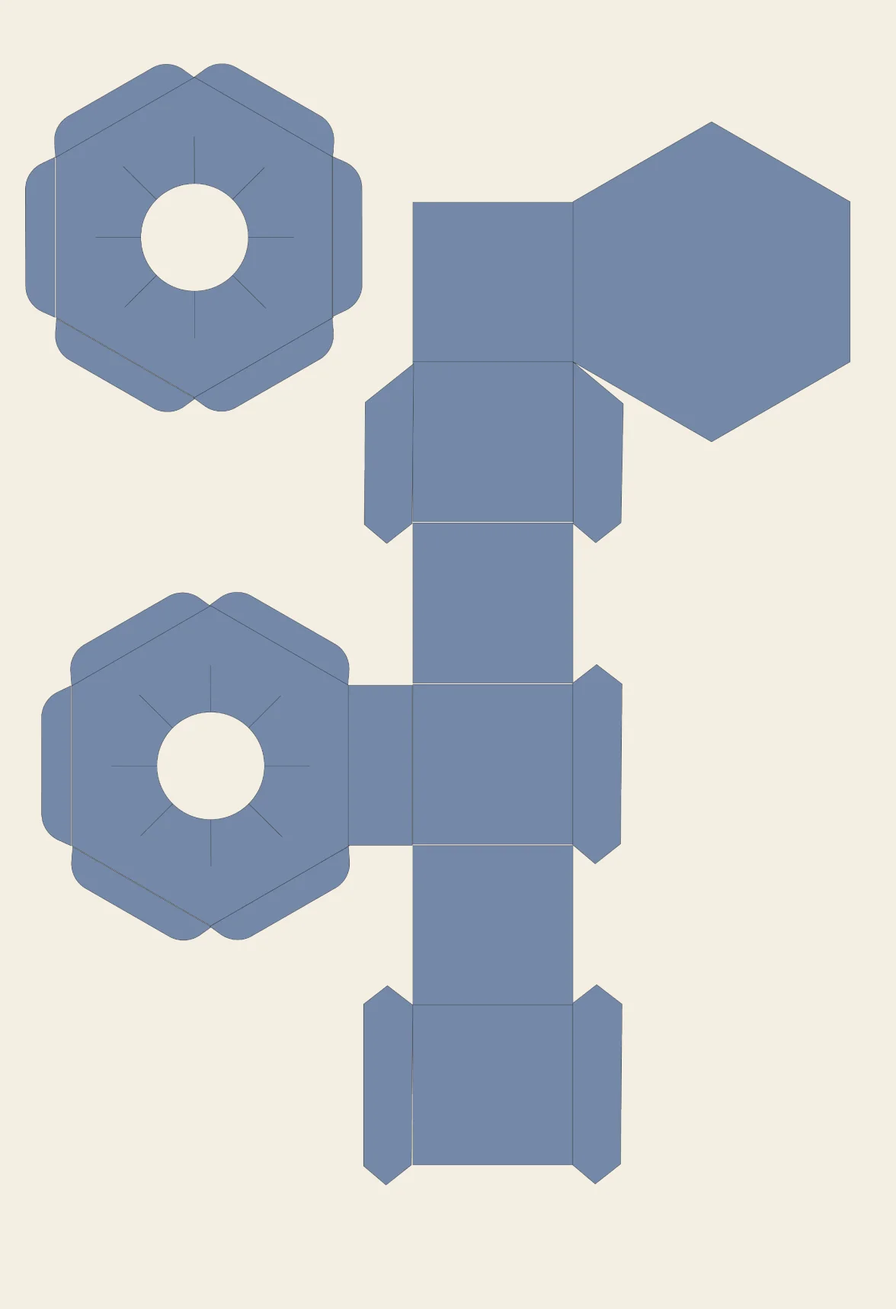
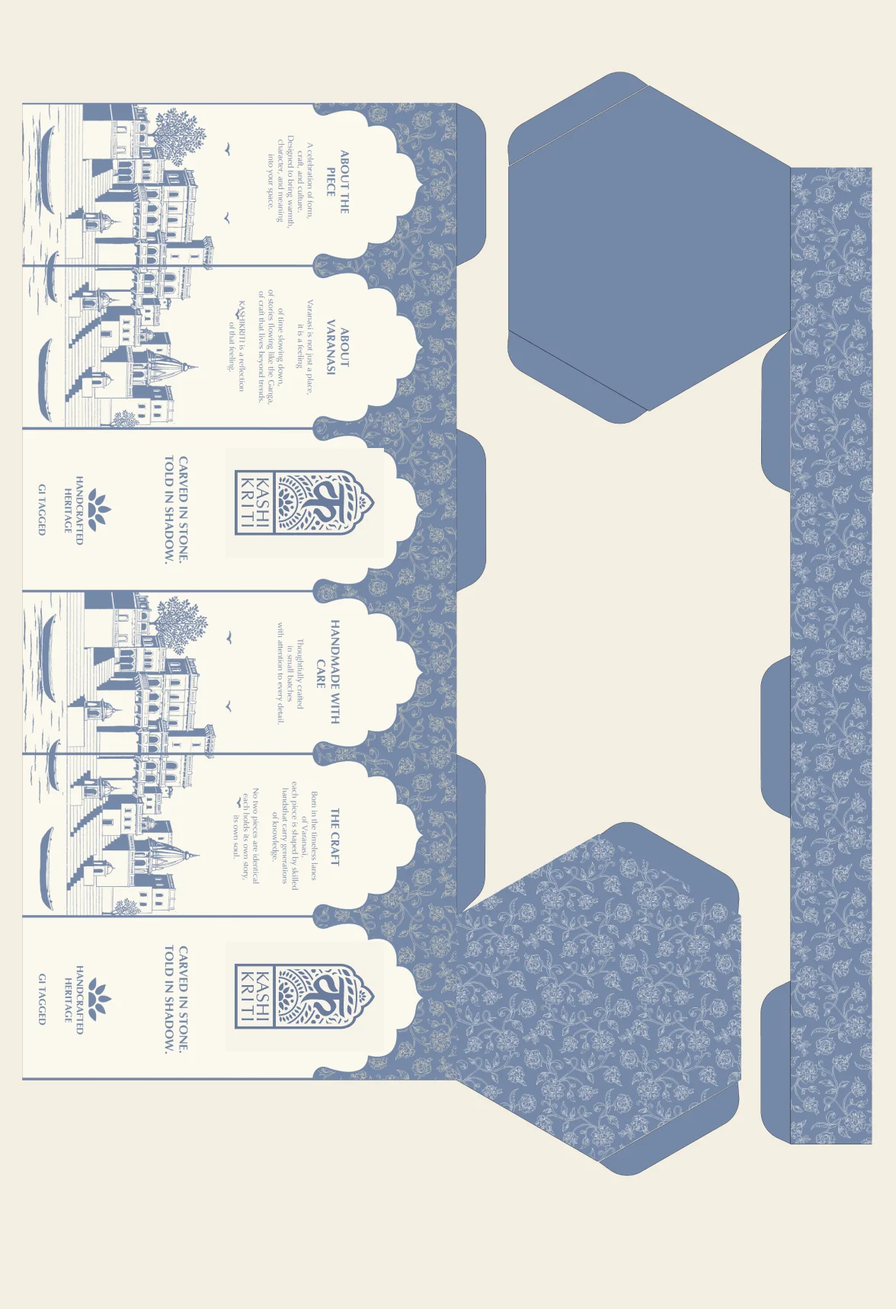
Kashikriti: new Packaging section from Figma (four steps, concept and structure photos, six panels, dieline, box mockup)
Claude-Session: https://claude.ai/code/session_01MAj4dGdYk2xdUyPPaXS8BB

diff --git a/work/kashikriti/index.html b/work/kashikriti/index.html
@@ -215,8 +215,8 @@ unseen by its own People." loading="lazy" decoding="async"></figure><div class="
 <section class="s" style="--h:1795" aria-label="Identity system"><img class="m" src="s/19.webp" srcset="s/19.webp 1440w, s/19@2x.webp 2880w" sizes="100vw" width="1440" height="1795" alt="" loading="lazy" decoding="async"><p class="t" style="left:calc(648*var(--k));top:calc(140*var(--k));width:calc(144*var(--k));font-size:calc(16*var(--k));line-height:1.4;font-family:var(--sans);text-align:center">Identity system</p><h2 class="t" style="left:calc(366*var(--k));top:calc(178*var(--k));width:calc(708*var(--k));font-size:calc(42*var(--k));line-height:calc(50*var(--k));font-family:var(--serif);text-align:center;font-style:italic">Stone colours, an arch, and a knot that repeats.</h2><p class="t" style="left:calc(240*var(--k));top:calc(268*var(--k));width:calc(960*var(--k));font-size:calc(16*var(--k));line-height:1.4;font-family:var(--sans);text-align:center">Every colour is taken from the stone itself. The arch frames photographs and text, and the knot repeats as a pattern across packaging and backgrounds.</p><p class="t" style="left:calc(168*var(--k));top:calc(732*var(--k));width:calc(89*var(--k));font-size:calc(16*var(--k));line-height:1.4;font-family:var(--sans);text-align:left">Stone Sand</p><p class="t" style="left:calc(168*var(--k));top:calc(758*var(--k));width:calc(224*var(--k));font-size:calc(14*var(--k));line-height:1.4;font-family:var(--sans);text-align:left">#CBB989  ·  Warm base, packaging</p><p class="t" style="left:calc(452*var(--k));top:calc(732*var(--k));width:calc(76*var(--k));font-size:calc(16*var(--k));line-height:1.4;font-family:var(--sans);text-align:left">Slate Blue</p><p class="t" style="left:calc(452*var(--k));top:calc(758*var(--k));width:calc(179*var(--k));font-size:calc(14*var(--k));line-height:1.4;font-family:var(--sans);text-align:left">#7F939E  ·  Accent, patterns</p><p class="t" style="left:calc(736*var(--k));top:calc(732*var(--k));width:calc(70*var(--k));font-size:calc(16*var(--k));line-height:1.4;font-family:var(--sans);text-align:left">Charcoal</p><p class="t" style="left:calc(736*var(--k));top:calc(758*var(--k));width:calc(184*var(--k));font-size:calc(14*var(--k));line-height:1.4;font-family:var(--sans);text-align:left">#3E454B  ·  Text and contrast</p><p class="t" style="left:calc(1020*var(--k));top:calc(732*var(--k));width:calc(70*var(--k));font-size:calc(16*var(--k));line-height:1.4;font-family:var(--sans);text-align:left">Mist Blue</p><p class="t" style="left:calc(1020*var(--k));top:calc(758*var(--k));width:calc(196*var(--k));font-size:calc(14*var(--k));line-height:1.4;font-family:var(--sans);text-align:left">#D9E7F0  ·  Light backgrounds</p><p class="t" style="left:calc(403*var(--k));top:calc(898*var(--k));width:calc(54*var(--k));font-size:calc(12*var(--k));line-height:1.4;font-family:var(--sans);text-align:left">Optima</p><p class="t" style="left:calc(403*var(--k));top:calc(939*var(--k));width:calc(237*var(--k));font-size:calc(32*var(--k));line-height:1.0;font-family:var(--sans);text-align:left">ABCDEFGHIJKLMNOPQRSTUVWXYZ</p><p class="t" style="left:calc(403*var(--k));top:calc(1075*var(--k));width:calc(237*var(--k));font-size:calc(32*var(--k));line-height:1.0;font-family:var(--sans);text-align:left">ABCDEFGHIJKLMNOPQRSTUVWXYZ</p><p class="t" style="left:calc(800*var(--k));top:calc(898*var(--k));width:calc(129*var(--k));font-size:calc(12*var(--k));line-height:1.4;font-family:var(--sans);text-align:left">Instrument Serif</p><p class="t" style="left:calc(800*var(--k));top:calc(939*var(--k));width:calc(237*var(--k));font-size:calc(32*var(--k));line-height:1.0;font-family:var(--serif);text-align:left">ABCDEFGHIJKLMNOPQRSTUVWXYZ</p><p class="t" style="left:calc(800*var(--k));top:calc(1075*var(--k));width:calc(237*var(--k));font-size:calc(32*var(--k));line-height:1.0;font-family:var(--serif);text-align:left">ABCDEFGHIJKLMNOPQRSTUVWXYZ</p><p class="t" style="left:calc(504*var(--k));top:calc(1539*var(--k));width:calc(76*var(--k));font-size:calc(18.8*var(--k));line-height:1.2;font-family:var(--serif);text-align:left">Handcrafted</p><p class="t" style="left:calc(881*var(--k));top:calc(1539*var(--k));width:calc(34*var(--k));font-size:calc(18.8*var(--k));line-height:1.2;font-family:var(--serif);text-align:left">Kashi</p></section>
 <section class="ms" style="background:#ffffff" aria-label="Identity system"><div class="mw"><p class="lb" style="font:700 16px/1.4 var(--sans);text-align:center;color:#d8b66a">Identity system</p><h2 style="font:italic 400 30.3px/1.15 var(--serif);text-align:center;color:#000000">Stone colours, an arch, and a knot that repeats.</h2><p style="font:400 16px/1.4 var(--sans);text-align:center;color:#000000">Every colour is taken from the stone itself. The arch frames photographs and text, and the knot repeats as a pattern across packaging and backgrounds.</p><div class="gr" style="--c:2"><div class="sp"><figure class="pi"><img src="m/19-1.webp" width="504" height="668" alt="" loading="lazy" decoding="async"></figure><div class="cap"><p style="font:700 16px/1.4 var(--sans);color:#000000">Stone Sand</p><p style="font:400 14px/1.4 var(--sans);color:#5c6166">#CBB989  ·  Warm base, packaging</p></div></div><div class="sp"><figure class="pi"><img src="m/19-2.webp" width="504" height="668" alt="" loading="lazy" decoding="async"></figure><div class="cap"><p style="font:700 16px/1.4 var(--sans);color:#000000">Slate Blue</p><p style="font:400 14px/1.4 var(--sans);color:#5c6166">#7F939E  ·  Accent, patterns</p></div></div><div class="sp"><figure class="pi"><img src="m/19-3.webp" width="504" height="668" alt="" loading="lazy" decoding="async"></figure><div class="cap"><p style="font:700 16px/1.4 var(--sans);color:#000000">Charcoal</p><p style="font:400 14px/1.4 var(--sans);color:#5c6166">#3E454B  ·  Text and contrast</p></div></div><div class="sp"><figure class="pi"><img src="m/19-4.webp" width="504" height="668" alt="" loading="lazy" decoding="async"></figure><div class="cap"><p style="font:700 16px/1.4 var(--sans);color:#000000">Mist Blue</p><p style="font:400 14px/1.4 var(--sans);color:#5c6166">#D9E7F0  ·  Light backgrounds</p></div></div></div><figure class="pi" style="max-width:317px"><img src="m/19-5.webp" width="634" height="643" alt="Optima ABCDEFGHIJKLMNOPQRSTUVWXYZ ABCDEFGHIJKLMNOPQRSTUVWXYZ" loading="lazy" decoding="async"></figure><figure class="pi" style="max-width:317px"><img src="m/19-6.webp" width="634" height="643" alt="Instrument Serif ABCDEFGHIJKLMNOPQRSTUVWXYZ ABCDEFGHIJKLMNOPQRSTUVWXYZ" loading="lazy" decoding="async"></figure><figure class="pi" style="max-width:674px"><img src="m/19-7.webp" width="1200" height="705" alt="Handcrafted Kashi" loading="lazy" decoding="async"></figure></div></section>
 <section class="s keep" style="--h:810" aria-label="Logo animation"><video class="m" poster="s/logo-v2-poster.webp" autoplay muted loop playsinline preload="metadata" aria-label="The Kashikriti logo animation"><source src="s/logo-v2.mp4" type="video/mp4"><source src="s/logo-v2.webm" type="video/webm"></video></section>
-<section class="s" style="--h:2998" aria-label="Packaging"><img class="m" src="s/21.webp" srcset="s/21.webp 1440w, s/21@2x.webp 2880w" sizes="100vw" width="1440" height="2998" alt="" loading="lazy" decoding="async"><p class="t" style="left:calc(673*var(--k));top:calc(140*var(--k));width:calc(95*var(--k));font-size:calc(16*var(--k));line-height:1.4;font-family:var(--sans);text-align:center">Packaging</p><h2 class="t" style="left:calc(441*var(--k));top:calc(178*var(--k));width:calc(558*var(--k));font-size:calc(42*var(--k));line-height:calc(50*var(--k));font-family:var(--serif);text-align:center;font-style:italic">A six-sided box that tells a 360° story.</h2><p class="t" style="left:calc(240*var(--k));top:calc(268*var(--k));width:calc(960*var(--k));font-size:calc(16*var(--k));line-height:1.4;font-family:var(--sans);text-align:center">Jaali pieces are fragile, so the box needed to protect them and feel worth opening. It is a hexagonal two-piece rigid box, a balance of culture, craft and minimal luxury: heritage-led, yet modern and premium.</p><p class="t" style="left:calc(121*var(--k));top:calc(1232*var(--k));width:calc(76*var(--k));font-size:calc(12*var(--k));line-height:1.4;font-family:var(--sans);text-align:left">Top · 16 cm</p><p class="t" style="left:calc(121*var(--k));top:calc(1257*var(--k));width:calc(373*var(--k));font-size:calc(16*var(--k));line-height:1.25;font-family:var(--sans);text-align:left">Carries the brand and its story across six panels.</p><p class="t" style="left:calc(534*var(--k));top:calc(1232*var(--k));width:calc(77*var(--k));font-size:calc(12*var(--k));line-height:1.4;font-family:var(--sans);text-align:left">Base · 3 cm</p><p class="t" style="left:calc(534*var(--k));top:calc(1257*var(--k));width:calc(373*var(--k));font-size:calc(16*var(--k));line-height:1.25;font-family:var(--sans);text-align:left">Holds the piece, finished with a solid blue band for balance.</p><p class="t" style="left:calc(947*var(--k));top:calc(1232*var(--k));width:calc(162*var(--k));font-size:calc(12*var(--k));line-height:1.4;font-family:var(--sans);text-align:left">Six panels, one story</p><p class="t" style="left:calc(947*var(--k));top:calc(1257*var(--k));width:calc(373*var(--k));font-size:calc(16*var(--k));line-height:1.25;font-family:var(--sans);text-align:left">Varanasi  ·  The craft  ·  The piece  ·  Handmade process  ·  Sustainability</p><p class="t" style="left:calc(562*var(--k));top:calc(1895*var(--k));width:calc(316*var(--k));font-size:calc(14*var(--k));line-height:1.4;font-family:var(--sans);text-align:center">The six panels laid flat, now carrying the arch logo</p><p class="t" style="left:calc(620*var(--k));top:calc(2838*var(--k));width:calc(200*var(--k));font-size:calc(14*var(--k));line-height:1.4;font-family:var(--sans);text-align:center">Dieline for the top and the base</p></section>
-<section class="ms" style="background:#f4efe2" aria-label="Packaging"><div class="mw"><p class="lb" style="font:700 16px/1.4 var(--sans);text-align:center;color:#d8b66a">Packaging</p><h2 style="font:italic 400 30.3px/1.15 var(--serif);text-align:center;color:#000000">A six-sided box that tells a 360° story.</h2><p style="font:400 16px/1.4 var(--sans);text-align:center;color:#000000">Jaali pieces are fragile, so the box needed to protect them and feel worth opening. It is a hexagonal two-piece rigid box, a balance of culture, craft and minimal luxury: heritage-led, yet modern and premium.</p><figure class="bl"><img src="m/21-1.webp" width="1640" height="1093" alt="" loading="lazy" decoding="async"></figure><div class="gr" style="--c:1"><div class="cd"><p style="font:700 13px/1.4 var(--sans);color:#5c6166;text-transform:uppercase;letter-spacing:.06em">Top · 16 cm</p><p style="font:400 16px/1.25 var(--sans);color:#000000">Carries the brand and its story across six panels.</p></div><div class="cd"><p style="font:700 13px/1.4 var(--sans);color:#5c6166;text-transform:uppercase;letter-spacing:.06em">Base · 3 cm</p><p style="font:400 16px/1.25 var(--sans);color:#000000">Holds the piece, finished with a solid blue band for balance.</p></div><div class="cd"><p style="font:700 13px/1.4 var(--sans);color:#5c6166;text-transform:uppercase;letter-spacing:.06em">Six panels, one story</p><p style="font:400 16px/1.25 var(--sans);color:#000000">Varanasi  ·  The craft  ·  The piece  ·  Handmade process  ·  Sustainability</p></div></div><figure class="pi" style="max-width:1200px"><img src="m/21-2.webp" width="1200" height="534" alt="" loading="lazy" decoding="async"></figure><p style="font:400 14px/1.4 var(--sans);text-align:center;color:#5c6166">The six panels laid flat, now carrying the arch logo</p><figure class="pi" style="max-width:588px"><img src="m/21-3.webp" width="1176" height="1718" alt="" loading="lazy" decoding="async"></figure><figure class="pi" style="max-width:588px"><img src="m/21-4.webp" width="1176" height="1718" alt="" loading="lazy" decoding="async"></figure><p style="font:400 14px/1.4 var(--sans);text-align:center;color:#5c6166">Dieline for the top and the base</p></div></section>
+<section class="s" style="--h:3872" aria-label="Packaging"><img class="m" src="s/21.webp" srcset="s/21.webp 1440w, s/21@2x.webp 2880w" sizes="100vw" width="1440" height="3872" alt="" loading="lazy" decoding="async"><p class="t" style="left:calc(673*var(--k));top:calc(140*var(--k));width:calc(95*var(--k));font-size:calc(16*var(--k));line-height:1.4;font-family:var(--sans);text-align:center">Packaging</p><h2 class="t" style="left:calc(441*var(--k));top:calc(178*var(--k));width:calc(558*var(--k));font-size:calc(42*var(--k));line-height:calc(50*var(--k));font-family:var(--serif);text-align:center;font-style:italic">A six-sided box that tells a 360° story.</h2><p class="t" style="left:calc(240*var(--k));top:calc(268*var(--k));width:calc(960*var(--k));font-size:calc(16*var(--k));line-height:1.4;font-family:var(--sans);text-align:center">Jaali pieces are fragile, and most listings show only the GI label, size and price. So the box had two jobs: protect the piece, and carry the story the listings leave out. I worked it out in four steps.</p><p class="t" style="left:calc(140*var(--k));top:calc(397*var(--k));width:calc(53*var(--k));font-size:calc(12*var(--k));line-height:1.4;font-family:var(--sans);text-align:left">STEP 01</p><h3 class="t" style="left:calc(140*var(--k));top:calc(426*var(--k));width:calc(91*var(--k));font-size:calc(32*var(--k));line-height:1.2;font-family:var(--serif);text-align:left;font-style:italic">Concept</h3><p class="t" style="left:calc(140*var(--k));top:calc(476*var(--k));width:calc(260*var(--k));font-size:calc(16*var(--k));line-height:1.4;font-family:var(--sans);text-align:left">A rough kraft model with a fitted insert that holds the piece upright.</p><p class="t" style="left:calc(440*var(--k));top:calc(397*var(--k));width:calc(55*var(--k));font-size:calc(12*var(--k));line-height:1.4;font-family:var(--sans);text-align:left">STEP 02</p><h3 class="t" style="left:calc(440*var(--k));top:calc(426*var(--k));width:calc(109*var(--k));font-size:calc(32*var(--k));line-height:1.2;font-family:var(--serif);text-align:left;font-style:italic">Structure</h3><p class="t" style="left:calc(440*var(--k));top:calc(476*var(--k));width:calc(260*var(--k));font-size:calc(16*var(--k));line-height:1.4;font-family:var(--sans);text-align:left">A rigid two-piece hexagon. The top lifts off, so the piece is never pulled from a flap.</p><p class="t" style="left:calc(740*var(--k));top:calc(397*var(--k));width:calc(55*var(--k));font-size:calc(12*var(--k));line-height:1.4;font-family:var(--sans);text-align:left">STEP 03</p><h3 class="t" style="left:calc(740*var(--k));top:calc(426*var(--k));width:calc(118*var(--k));font-size:calc(32*var(--k));line-height:1.2;font-family:var(--serif);text-align:left;font-style:italic">Six panels</h3><p class="t" style="left:calc(740*var(--k));top:calc(476*var(--k));width:calc(260*var(--k));font-size:calc(16*var(--k));line-height:1.4;font-family:var(--sans);text-align:left">One panel per part of the story, read as you turn the box.</p><p class="t" style="left:calc(1040*var(--k));top:calc(397*var(--k));width:calc(55*var(--k));font-size:calc(12*var(--k));line-height:1.4;font-family:var(--sans);text-align:left">STEP 04</p><h3 class="t" style="left:calc(1040*var(--k));top:calc(426*var(--k));width:calc(88*var(--k));font-size:calc(32*var(--k));line-height:1.2;font-family:var(--serif);text-align:left;font-style:italic">The box</h3><p class="t" style="left:calc(1040*var(--k));top:calc(476*var(--k));width:calc(260*var(--k));font-size:calc(16*var(--k));line-height:1.4;font-family:var(--sans);text-align:left">Printed in the stone’s slate blue and cream, with the arch on every side.</p><p class="t" style="left:calc(140*var(--k));top:calc(1056*var(--k));width:calc(87*var(--k));font-size:calc(12*var(--k));line-height:1.4;font-family:var(--sans);text-align:left">01  CONCEPT</p><p class="t" style="left:calc(140*var(--k));top:calc(1095*var(--k));width:calc(564*var(--k));font-size:calc(14*var(--k));line-height:1.4;font-family:var(--sans);text-align:left">The first kraft model: the arch drawn on a six-sided sleeve, with an insert inside.</p><p class="t" style="left:calc(736*var(--k));top:calc(1056*var(--k));width:calc(104*var(--k));font-size:calc(12*var(--k));line-height:1.4;font-family:var(--sans);text-align:left">02  STRUCTURE</p><p class="t" style="left:calc(736*var(--k));top:calc(1095*var(--k));width:calc(564*var(--k));font-size:calc(14*var(--k));line-height:1.4;font-family:var(--sans);text-align:left">The final form: a tall top that lifts off a shallow base.</p><p class="t" style="left:calc(121*var(--k));top:calc(1187*var(--k));width:calc(76*var(--k));font-size:calc(12*var(--k));line-height:1.4;font-family:var(--sans);text-align:left">Top · 16 cm</p><p class="t" style="left:calc(121*var(--k));top:calc(1212*var(--k));width:calc(373*var(--k));font-size:calc(16*var(--k));line-height:1.25;font-family:var(--sans);text-align:left">Carries the brand and its story across six panels.</p><p class="t" style="left:calc(534*var(--k));top:calc(1187*var(--k));width:calc(77*var(--k));font-size:calc(12*var(--k));line-height:1.4;font-family:var(--sans);text-align:left">Base · 3 cm</p><p class="t" style="left:calc(534*var(--k));top:calc(1212*var(--k));width:calc(373*var(--k));font-size:calc(16*var(--k));line-height:1.25;font-family:var(--sans);text-align:left">Holds the piece, finished with a solid blue band for balance.</p><p class="t" style="left:calc(947*var(--k));top:calc(1187*var(--k));width:calc(162*var(--k));font-size:calc(12*var(--k));line-height:1.4;font-family:var(--sans);text-align:left">Six panels, one story</p><p class="t" style="left:calc(947*var(--k));top:calc(1212*var(--k));width:calc(373*var(--k));font-size:calc(16*var(--k));line-height:1.25;font-family:var(--sans);text-align:left">About the piece  ·  Varanasi  ·  The craft  ·  Handmade with care  ·  Logo and tagline</p><p class="t" style="left:calc(120*var(--k));top:calc(1880*var(--k));width:calc(101*var(--k));font-size:calc(12*var(--k));line-height:1.4;font-family:var(--sans);text-align:left">03  SIX PANELS</p><p class="t" style="left:calc(120*var(--k));top:calc(1919*var(--k));width:calc(760*var(--k));font-size:calc(14*var(--k));line-height:1.4;font-family:var(--sans);text-align:left">About the piece, about Varanasi, the craft, handmade with care, and the arch logo with “Carved in stone. Told in shadow.” The ghats run along the bottom, the floral repeat along the top.</p><p class="t" style="left:calc(538*var(--k));top:calc(2906*var(--k));width:calc(365*var(--k));font-size:calc(14*var(--k));line-height:1.4;font-family:var(--sans);text-align:center">Dieline for the top and the base.</p><p class="t" style="left:calc(140*var(--k));top:calc(3673*var(--k));width:calc(82*var(--k));font-size:calc(12*var(--k));line-height:1.4;font-family:var(--sans);text-align:left">04  THE BOX</p><p class="t" style="left:calc(140*var(--k));top:calc(3712*var(--k));width:calc(1160*var(--k));font-size:calc(14*var(--k));line-height:1.4;font-family:var(--sans);text-align:left">Mockup render: the printed box beside the carving it holds.</p></section>
+<section class="ms" style="background:#f4efe2" aria-label="Packaging"><div class="mw"><p class="lb" style="font:700 16px/1.4 var(--sans);text-align:center;color:#d8b66a">Packaging</p><h2 style="font:italic 400 30.3px/1.15 var(--serif);text-align:center;color:#000000">A six-sided box that tells a 360° story.</h2><p style="font:400 16px/1.4 var(--sans);text-align:center;color:#000000">Jaali pieces are fragile, and most listings show only the GI label, size and price. So the box had two jobs: protect the piece, and carry the story the listings leave out. I worked it out in four steps.</p><div class="gr" style="--c:1"><div class="cd"><p style="font:700 13px/1.4 var(--sans);color:#8a7a4e">STEP 01</p><h3 style="font:italic 400 24.8px/1.15 var(--serif);color:#3e454b">Concept</h3><p style="font:400 16px/1.4 var(--sans);color:#3e454b">A rough kraft model with a fitted insert that holds the piece upright.</p></div><div class="cd"><p style="font:700 13px/1.4 var(--sans);color:#8a7a4e">STEP 02</p><h3 style="font:italic 400 24.8px/1.15 var(--serif);color:#3e454b">Structure</h3><p style="font:400 16px/1.4 var(--sans);color:#3e454b">A rigid two-piece hexagon. The top lifts off, so the piece is never pulled from a flap.</p></div><div class="cd"><p style="font:700 13px/1.4 var(--sans);color:#8a7a4e">STEP 03</p><h3 style="font:italic 400 24.8px/1.15 var(--serif);color:#3e454b">Six panels</h3><p style="font:400 16px/1.4 var(--sans);color:#3e454b">One panel per part of the story, read as you turn the box.</p></div><div class="cd"><p style="font:700 13px/1.4 var(--sans);color:#8a7a4e">STEP 04</p><h3 style="font:italic 400 24.8px/1.15 var(--serif);color:#3e454b">The box</h3><p style="font:400 16px/1.4 var(--sans);color:#3e454b">Printed in the stone’s slate blue and cream, with the arch on every side.</p></div></div><div class="sp"><figure class="pi" style="max-width:564px"><img src="m/21-1.webp" width="1128" height="872" alt="" loading="lazy" decoding="async"></figure><div class="cap"><p style="font:700 13px/1.4 var(--sans);color:#8a7a4e">01  CONCEPT</p><p style="font:400 14px/1.4 var(--sans);color:#3e454b">The first kraft model: the arch drawn on a six-sided sleeve, with an insert inside.</p></div></div><div class="sp"><figure class="pi" style="max-width:564px"><img src="m/21-2.webp" width="1128" height="872" alt="" loading="lazy" decoding="async"></figure><div class="cap"><p style="font:700 13px/1.4 var(--sans);color:#8a7a4e">02  STRUCTURE</p><p style="font:400 14px/1.4 var(--sans);color:#3e454b">The final form: a tall top that lifts off a shallow base.</p></div></div><div class="gr" style="--c:1"><div class="cd"><p style="font:700 13px/1.4 var(--sans);color:#5c6166;text-transform:uppercase;letter-spacing:.06em">Top · 16 cm</p><p style="font:400 16px/1.25 var(--sans);color:#000000">Carries the brand and its story across six panels.</p></div><div class="cd"><p style="font:700 13px/1.4 var(--sans);color:#5c6166;text-transform:uppercase;letter-spacing:.06em">Base · 3 cm</p><p style="font:400 16px/1.25 var(--sans);color:#000000">Holds the piece, finished with a solid blue band for balance.</p></div><div class="cd"><p style="font:700 13px/1.4 var(--sans);color:#5c6166;text-transform:uppercase;letter-spacing:.06em">Six panels, one story</p><p style="font:400 16px/1.25 var(--sans);color:#000000">About the piece  ·  Varanasi  ·  The craft  ·  Handmade with care  ·  Logo and tagline</p></div></div><figure class="bl"><img src="m/21-3.webp" width="1640" height="730" alt="" loading="lazy" decoding="async"></figure><p style="font:700 13px/1.4 var(--sans);color:#8a7a4e">03  SIX PANELS</p><p style="font:400 14px/1.4 var(--sans);color:#3e454b">About the piece, about Varanasi, the craft, handmade with care, and the arch logo with “Carved in stone. Told in shadow.” The ghats run along the bottom, the floral repeat along the top.</p><figure class="pi" style="max-width:588px"><img src="m/21-4.webp" width="1176" height="1718" alt="" loading="lazy" decoding="async"></figure><figure class="pi" style="max-width:588px"><img src="m/21-5.webp" width="1176" height="1718" alt="" loading="lazy" decoding="async"></figure><p style="font:400 14px/1.4 var(--sans);text-align:center;color:#3e454b">Dieline for the top and the base.</p><figure class="bl"><img src="m/21-6.webp" width="1640" height="923" alt="" loading="lazy" decoding="async"></figure><p style="font:700 13px/1.4 var(--sans);color:#8a7a4e">04  THE BOX</p><p style="font:400 14px/1.4 var(--sans);color:#3e454b">Mockup render: the printed box beside the carving it holds.</p></div></section>
 <section class="s" style="--h:1323" aria-label="Campaign"><img class="m" src="s/22.webp" srcset="s/22.webp 1440w, s/22@2x.webp 2880w" sizes="100vw" width="1440" height="1323" alt="" loading="lazy" decoding="async"><p class="t" style="left:calc(677*var(--k));top:calc(140*var(--k));width:calc(87*var(--k));font-size:calc(16*var(--k));line-height:1.4;font-family:var(--sans);text-align:center">Campaign</p><h2 class="t" style="left:calc(534*var(--k));top:calc(178*var(--k));width:calc(372*var(--k));font-size:calc(42*var(--k));line-height:calc(50*var(--k));font-family:var(--serif);text-align:center;font-style:italic">Recognized. Still Unseen.</h2><p class="t" style="left:calc(240*var(--k));top:calc(268*var(--k));width:calc(960*var(--k));font-size:calc(16*var(--k));line-height:1.4;font-family:var(--sans);text-align:center">The craft has a GI tag, yet most people walk past it. The campaign plays on that gap. It first shows familiar patterns of light and shadow, then reveals their source: a hand-carved jaali.</p><p class="t" style="left:calc(140*var(--k));top:calc(373*var(--k));width:calc(63*var(--k));font-size:calc(12*var(--k));line-height:1.4;font-family:var(--sans);text-align:left">Phase 01</p><h3 class="t" style="left:calc(140*var(--k));top:calc(402*var(--k));width:calc(135*var(--k));font-size:calc(32*var(--k));line-height:1.2;font-family:var(--serif);text-align:left;font-style:italic">The Ignored</h3><p class="t" style="left:calc(140*var(--k));top:calc(452*var(--k));width:calc(360*var(--k));font-size:calc(16*var(--k));line-height:1.4;font-family:var(--sans);text-align:left">The craft exists all around us, yet is overlooked despite being recognized.</p><p class="t" style="left:calc(540*var(--k));top:calc(373*var(--k));width:calc(65*var(--k));font-size:calc(12*var(--k));line-height:1.4;font-family:var(--sans);text-align:left">Phase 02</p><h3 class="t" style="left:calc(540*var(--k));top:calc(402*var(--k));width:calc(136*var(--k));font-size:calc(32*var(--k));line-height:1.2;font-family:var(--serif);text-align:left;font-style:italic">The Making</h3><p class="t" style="left:calc(540*var(--k));top:calc(452*var(--k));width:calc(360*var(--k));font-size:calc(16*var(--k));line-height:1.4;font-family:var(--sans);text-align:left">The artisans, and the time and skill behind every piece.</p><p class="t" style="left:calc(940*var(--k));top:calc(373*var(--k));width:calc(65*var(--k));font-size:calc(12*var(--k));line-height:1.4;font-family:var(--sans);text-align:left">Phase 03</p><h3 class="t" style="left:calc(940*var(--k));top:calc(402*var(--k));width:calc(110*var(--k));font-size:calc(32*var(--k));line-height:1.2;font-family:var(--serif);text-align:left;font-style:italic">The Value</h3><p class="t" style="left:calc(940*var(--k));top:calc(452*var(--k));width:calc(360*var(--k));font-size:calc(16*var(--k));line-height:1.4;font-family:var(--sans);text-align:left">The craft as a piece of Varanasi, not a souvenir.</p><p class="t" style="left:calc(164*var(--k));top:calc(576*var(--k));width:calc(232*var(--k));font-size:calc(36*var(--k));line-height:1.1;font-family:var(--serif);text-align:left">LIGHT FINDS
 WHAT WE DON’T.</p><p class="t" style="left:calc(136*var(--k));top:calc(1080*var(--k));width:calc(72*var(--k));font-size:calc(12*var(--k));line-height:1.4;font-family:var(--sans);text-align:left">01  Notice</p><p class="t" style="left:calc(665*var(--k));top:calc(962*var(--k));width:calc(111*var(--k));font-size:calc(16*var(--k));line-height:1.1;font-family:var(--serif);text-align:center">AND REVEALS
 WHAT WE MISSED.</p><p class="t" style="left:calc(536*var(--k));top:calc(1080*var(--k));width:calc(93*var(--k));font-size:calc(12*var(--k));line-height:1.4;font-family:var(--sans);text-align:left">02  Discover</p><p class="t" style="left:calc(1077*var(--k));top:calc(977*var(--k));width:calc(86*var(--k));font-size:calc(15*var(--k));line-height:1.1;font-family:var(--serif);text-align:center">RECOGNIZED.
